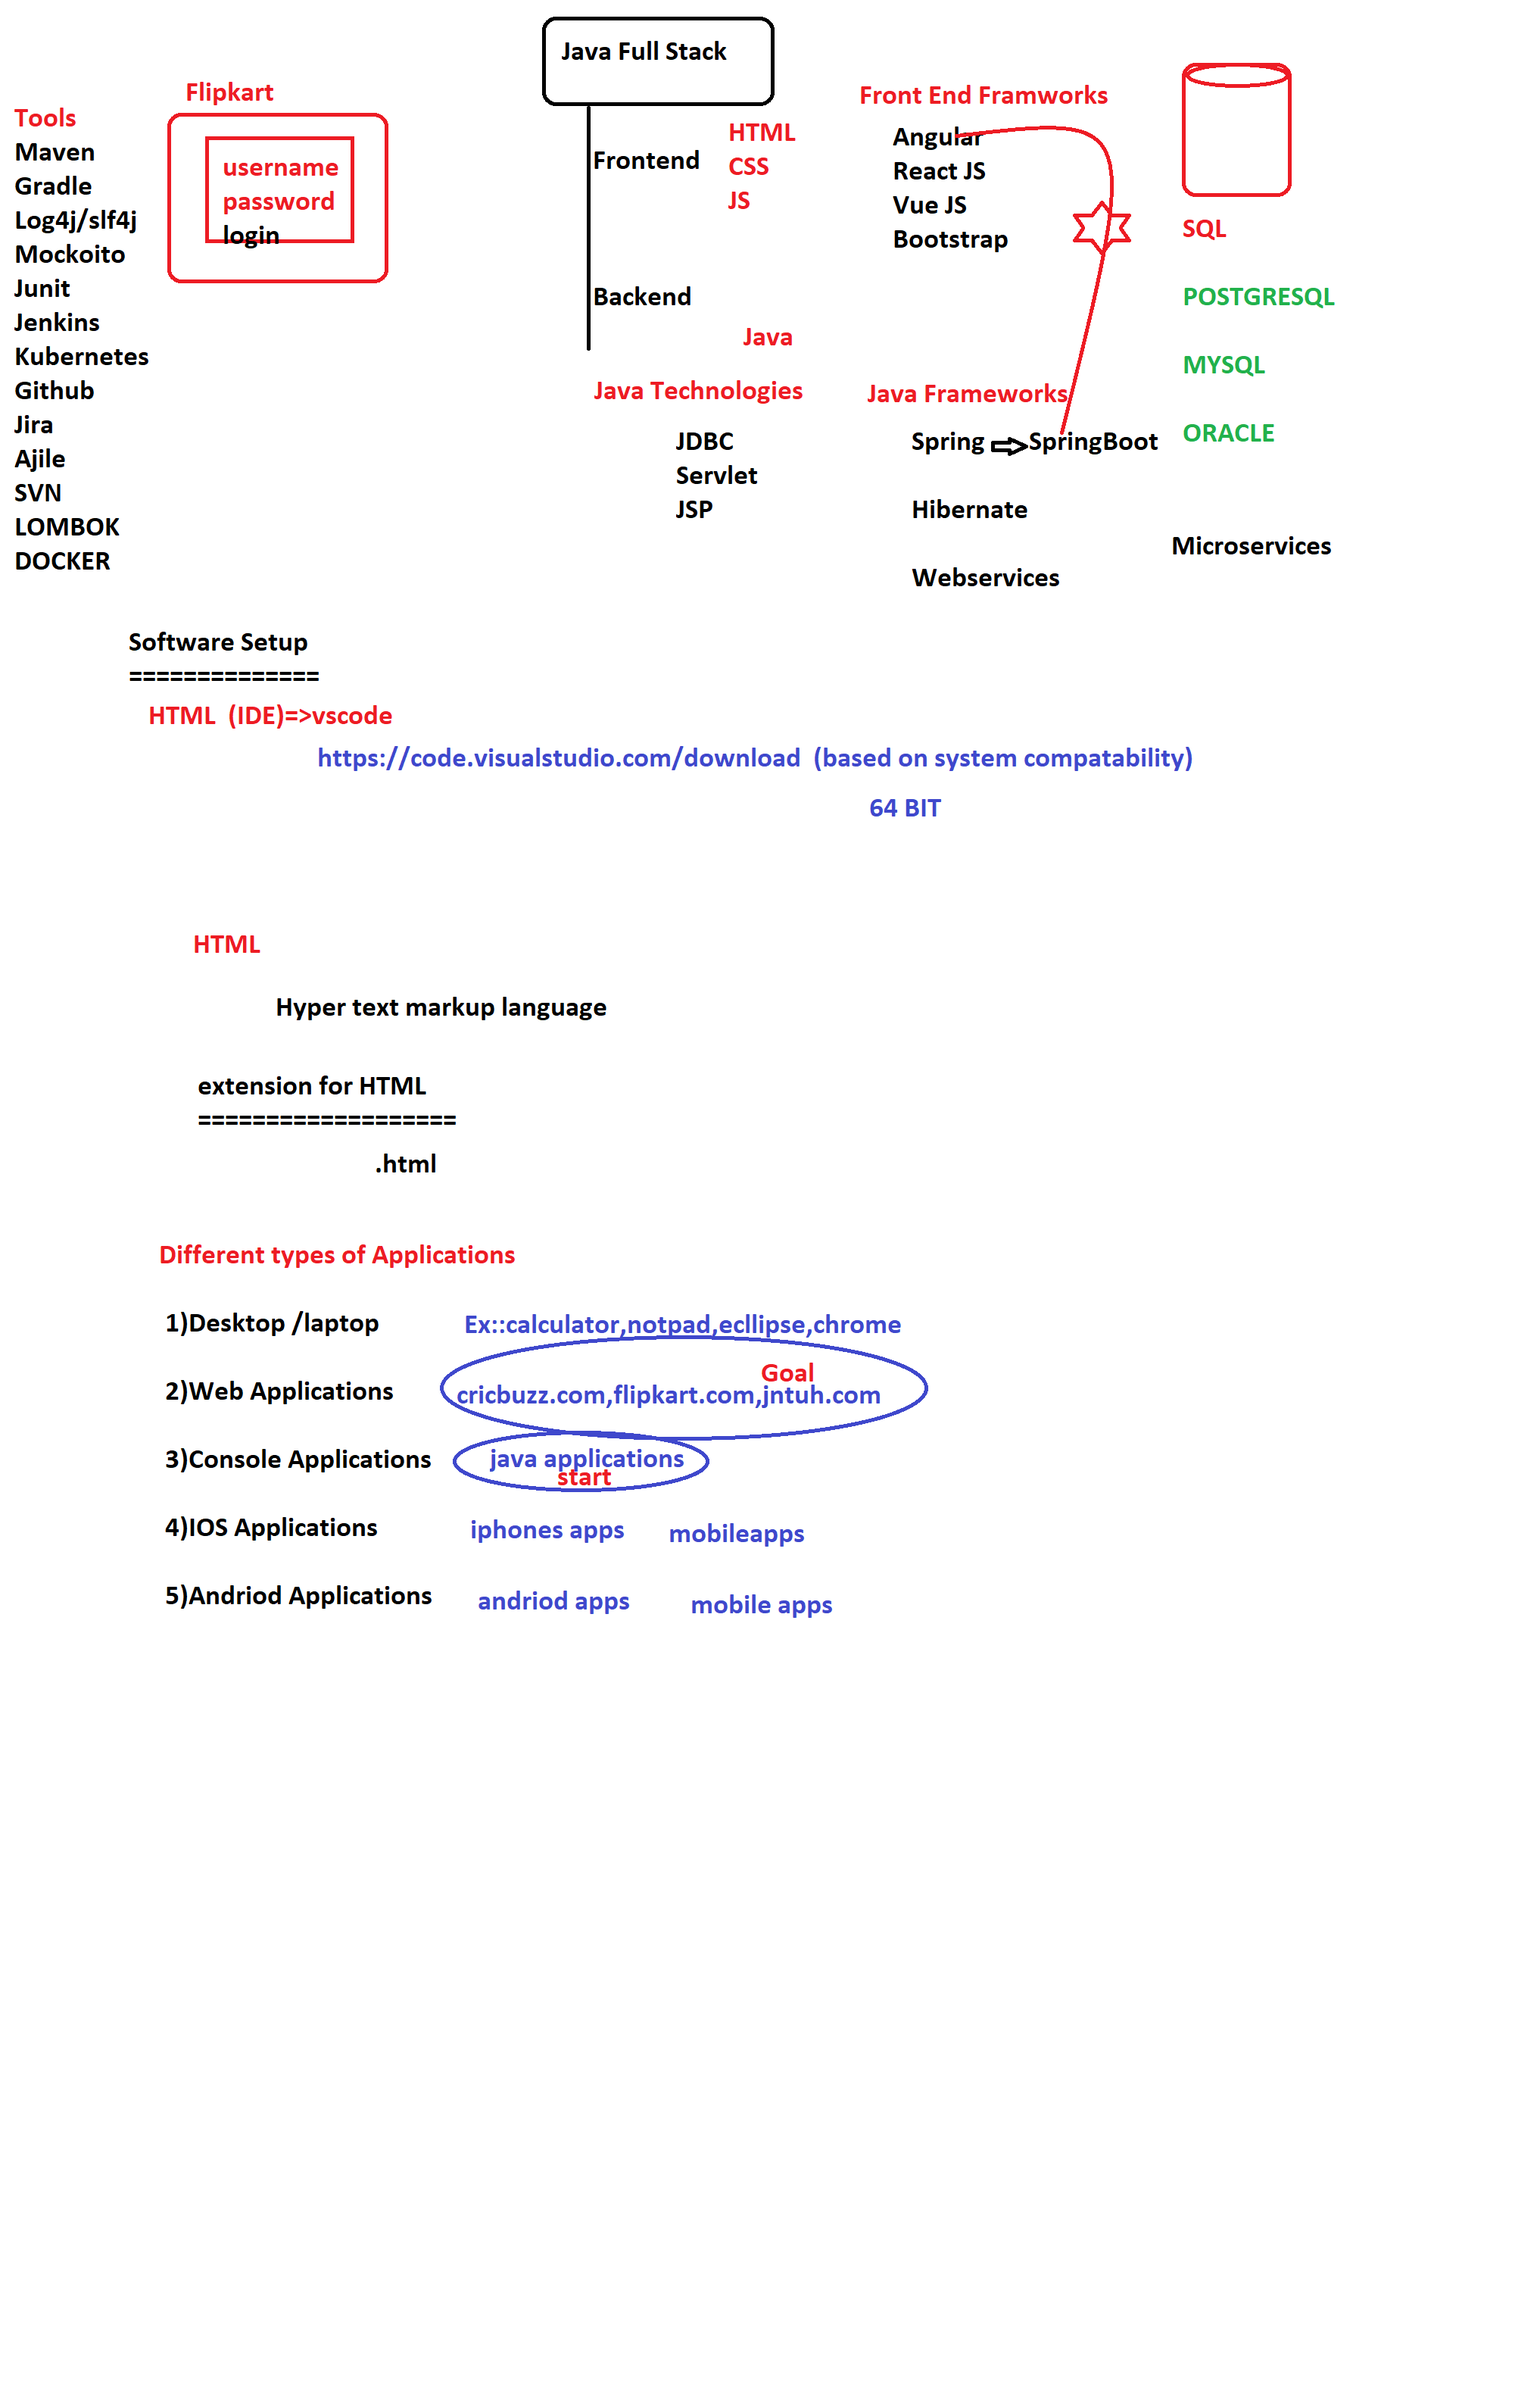
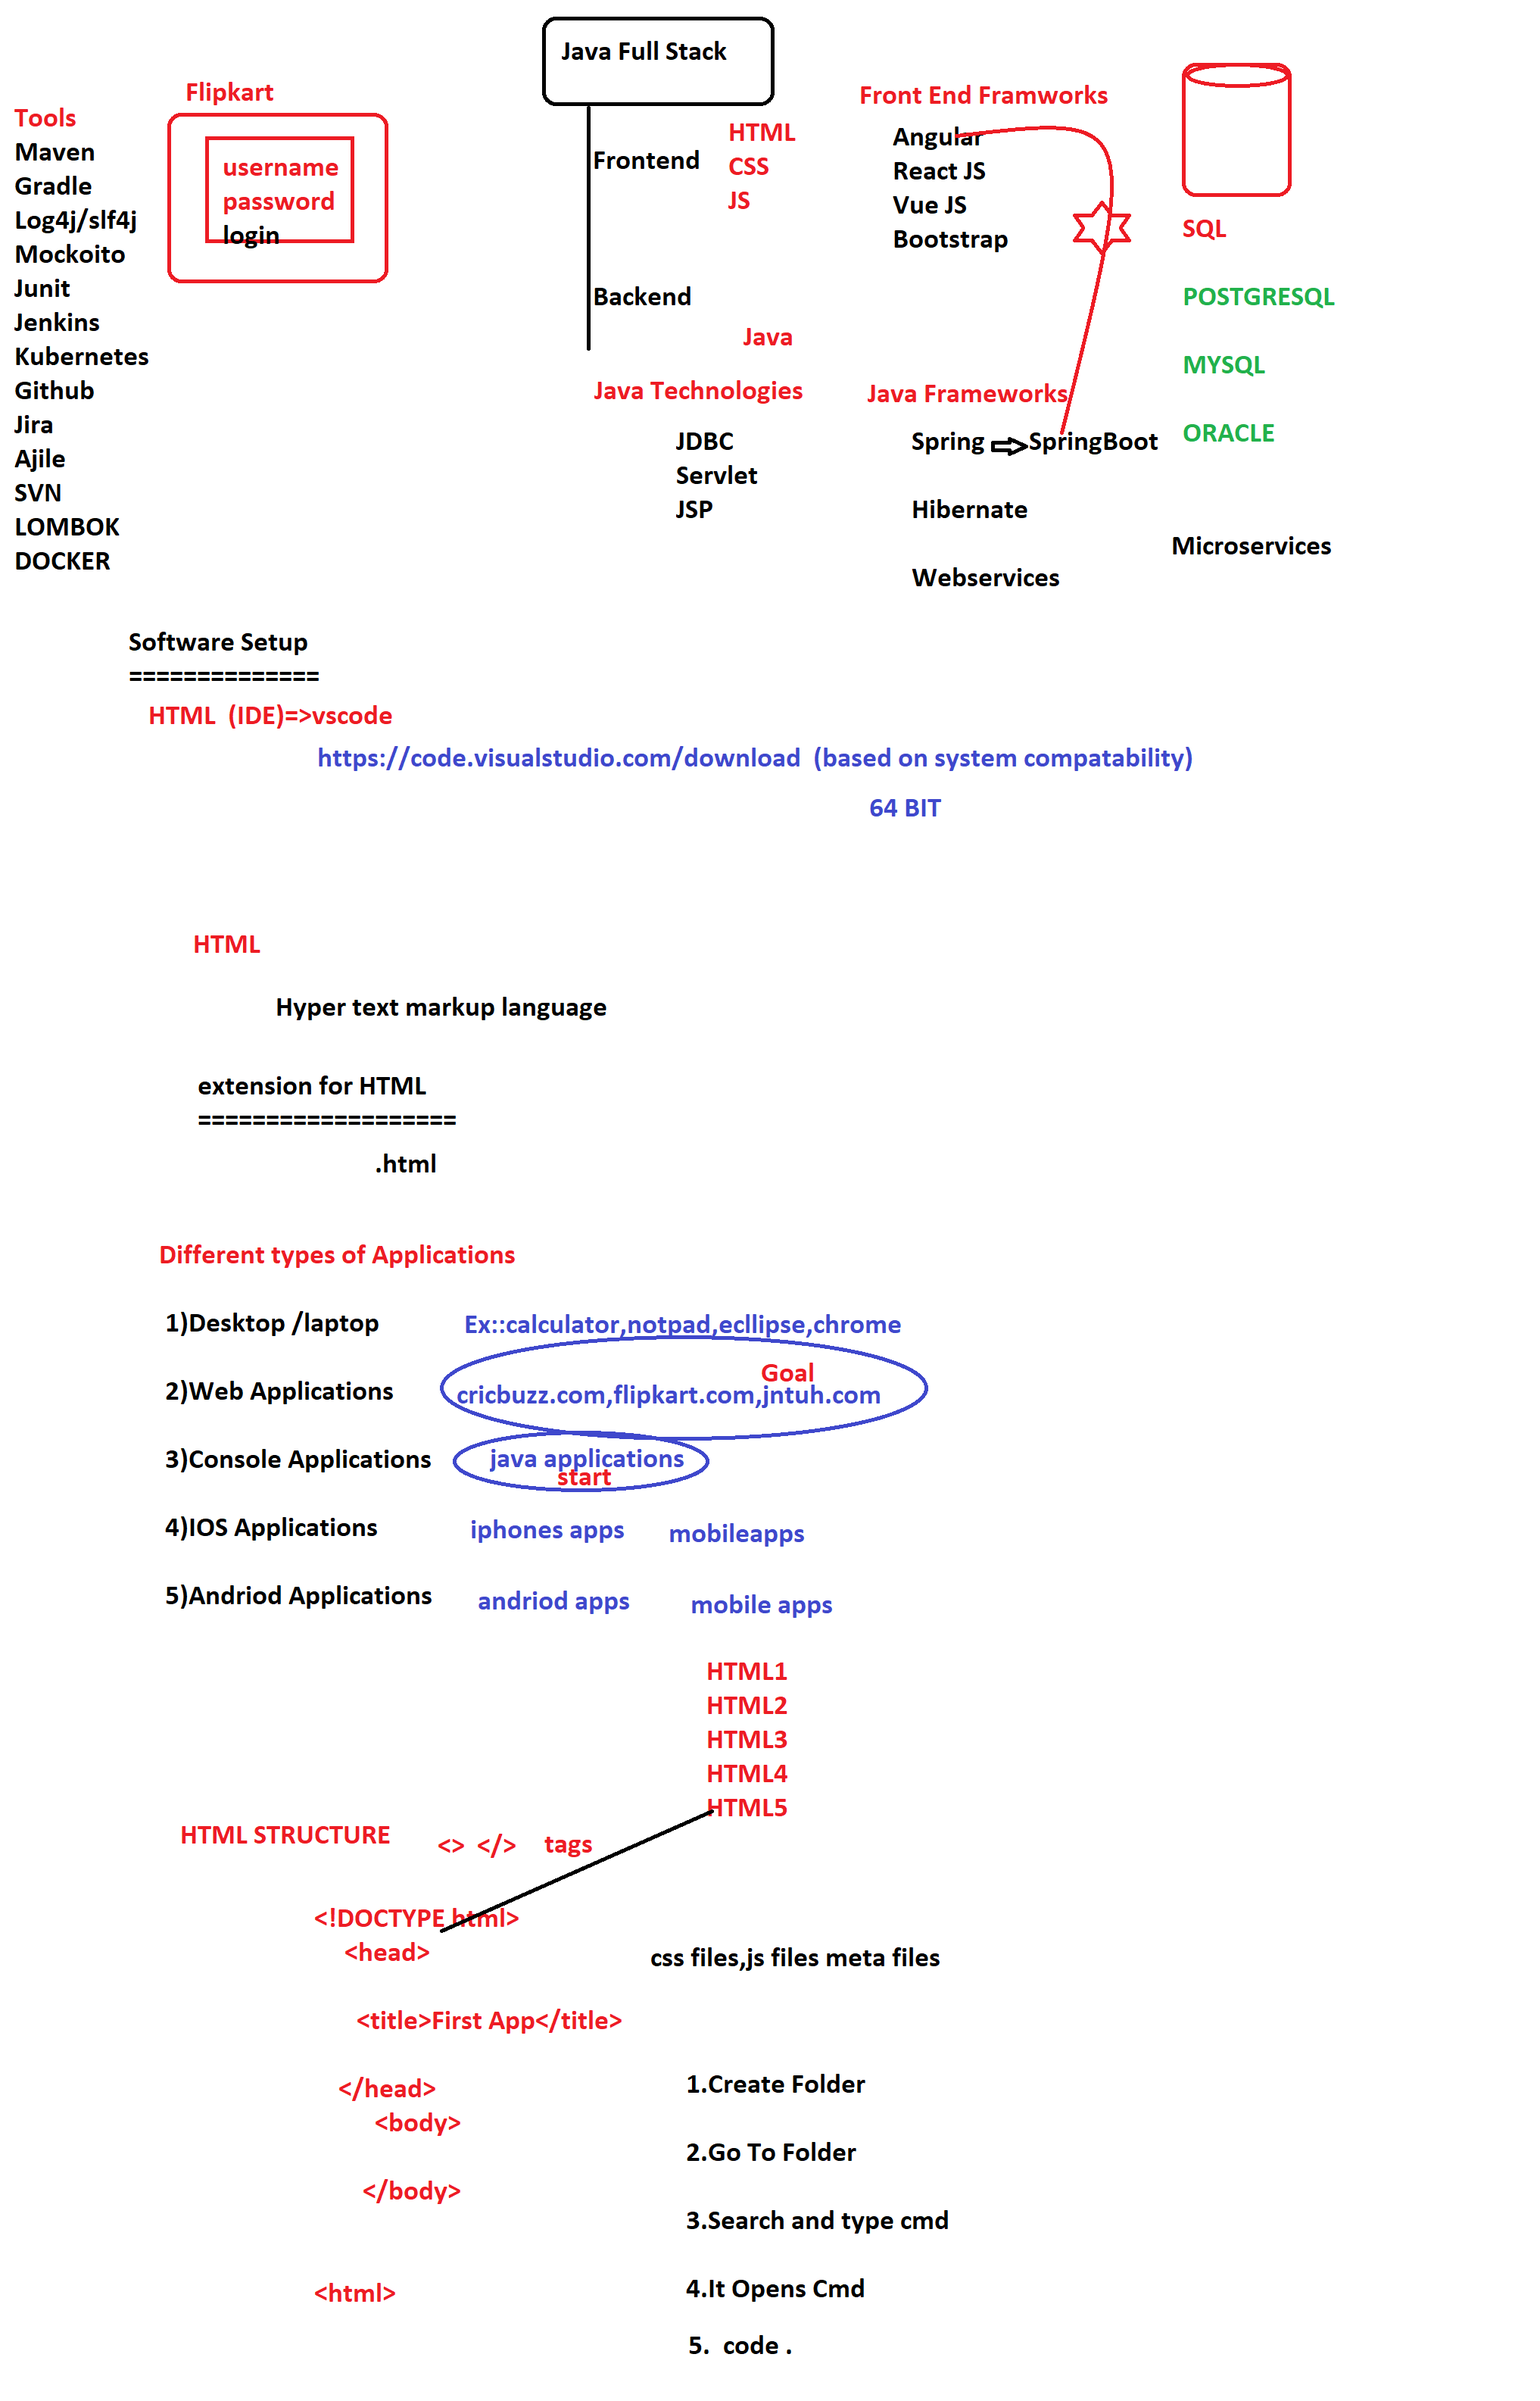
Add files via upload

diff --git a/HTML/04_HTML_Styles/index.html b/HTML/04_HTML_Styles/index.html
@@ -1,0 +1,50 @@
+<!DOCTYPE html>
+<html lang="en">
+<head>
+    <meta charset="UTF-8">
+    <meta http-equiv="X-UA-Compatible" content="IE=edge">
+    <meta name="viewport" content="width=device-width, initial-scale=1.0">
+    <title>Html Styles</title>
+    <style>
+        h1{
+            color: green;
+            background-color: black;
+            padding: 10px
+        }
+        .courses{
+            color: red;
+            background-color: black;
+            padding: 10px;
+        }
+    </style>
+</head>
+<body>
+    <h1>Java Script</h1>
+
+    <p>Lorem ipsum dolor sit amet consectetur adipisicing elit. Esse voluptas doloribus consectetur enim fugiat velit fuga, placeat nulla dicta ducimus voluptate, voluptatibus accusamus totam tempora atque id quasi officia neque soluta nostrum natus necessitatibus minus! Animi adipisci unde perferendis autem. Sint ex odit amet fuga nihil? Harum iste delectus rerum.</p>
+
+    <h1 class="courses">Angular</h1>
+
+    <p>Lorem ipsum dolor sit amet consectetur adipisicing elit. Ad, alias eos. Placeat fugit numquam, in mollitia amet molestias atque beatae. Atque natus pariatur similique sint consequuntur sit voluptatibus cumque nihil, excepturi est ratione, deleniti placeat quibusdam nisi. Repellat eos soluta recusandae. Mollitia, animi? Laborum ea voluptatibus velit fugiat alias facere.</p>
+
+    <h1>React</h1>
+    <p>Lorem ipsum dolor sit amet, consectetur adipisicing elit. Porro culpa quibusdam corporis facere, non labore veritatis sed eveniet, odio, id quae explicabo. Aliquid iusto sapiente illum, et error tempore quas magnam molestias facere fugiat quasi dolores harum amet possimus a nostrum cum optio doloribus ullam. Esse suscipit perferendis in quia.</p>
+    
+    <h1 class="courses">Vue Js</h1>
+    <p>Lorem ipsum dolor sit, amet consectetur adipisicing elit. Explicabo dolore animi repellat sit mollitia aut maxime officia facilis nemo odit eaque dolores quas quam ut cupiditate non iusto porro, aliquid laudantium? Odio voluptatibus, quibusdam commodi atque odit distinctio nesciunt repellat, asperiores dicta voluptatum eligendi. Porro quisquam inventore dolor nobis excepturi!</p>
+
+    <!-- <h1 style="color: green;background-color: black;padding: 10px;">Java Script</h1>
+
+    <p>Lorem ipsum dolor sit amet consectetur adipisicing elit. Esse voluptas doloribus consectetur enim fugiat velit fuga, placeat nulla dicta ducimus voluptate, voluptatibus accusamus totam tempora atque id quasi officia neque soluta nostrum natus necessitatibus minus! Animi adipisci unde perferendis autem. Sint ex odit amet fuga nihil? Harum iste delectus rerum.</p>
+
+    <h1 style="color: green; background-color: black;padding: 10px;">Angular</h1>
+
+    <p>Lorem ipsum dolor sit amet consectetur adipisicing elit. Ad, alias eos. Placeat fugit numquam, in mollitia amet molestias atque beatae. Atque natus pariatur similique sint consequuntur sit voluptatibus cumque nihil, excepturi est ratione, deleniti placeat quibusdam nisi. Repellat eos soluta recusandae. Mollitia, animi? Laborum ea voluptatibus velit fugiat alias facere.</p>
+
+    <h1 style="color: green;background-color: black;padding: 10px;">React</h1>
+    <p>Lorem ipsum dolor sit amet, consectetur adipisicing elit. Porro culpa quibusdam corporis facere, non labore veritatis sed eveniet, odio, id quae explicabo. Aliquid iusto sapiente illum, et error tempore quas magnam molestias facere fugiat quasi dolores harum amet possimus a nostrum cum optio doloribus ullam. Esse suscipit perferendis in quia.</p>
+    
+    <h1 style="color: green;background-color: black;padding: 10px;">Vue Js</h1>
+    <p>Lorem ipsum dolor sit, amet consectetur adipisicing elit. Explicabo dolore animi repellat sit mollitia aut maxime officia facilis nemo odit eaque dolores quas quam ut cupiditate non iusto porro, aliquid laudantium? Odio voluptatibus, quibusdam commodi atque odit distinctio nesciunt repellat, asperiores dicta voluptatum eligendi. Porro quisquam inventore dolor nobis excepturi!</p> -->
+</body>
+</html>

diff --git a/HTML/07_HTML_Lists/index.html b/HTML/07_HTML_Lists/index.html
@@ -1,0 +1,68 @@
+<!DOCTYPE html>
+<html lang="en">
+<head>
+    <meta charset="UTF-8">
+    <meta http-equiv="X-UA-Compatible" content="IE=edge">
+    <meta name="viewport" content="width=device-width, initial-scale=1.0">
+    <title>HTML Lists</title>
+    <style>
+        h1{
+            background-color: black;
+            color: white;
+            padding: 10px;
+            text-align: center;
+        }
+    </style>
+</head>
+<body>
+    <h1>HTML Lists</h1>
+
+    <ol>
+        <li>Angular</li> 
+        <li>React</li>
+        <li>Vue Js</li>
+        <li>SpringBoot</li>
+       
+    </ol>
+
+    <ol type="a">
+        <li>Angular</li> 
+        <li>React</li>
+        <li>Vue Js</li>
+        <li>SpringBoot</li>
+       
+    </ol>
+
+    <ol type="A">
+        <li>Angular</li> 
+        <li>React</li>
+        <li>Vue Js</li>
+        <li>SpringBoot</li>
+       
+    </ol>
+
+    <ol type="i">
+        <li>Angular</li> 
+        <li>React</li>
+        <li>Vue Js</li>
+        <li>SpringBoot</li>
+       
+    </ol>
+    <ol type="I">
+        <li>Angular</li> 
+        <li>React</li>
+        <li>Vue Js</li>
+        <li>SpringBoot</li>
+       
+    </ol>
+    <!--HTML Lists-->
+    <ul>
+        <li>Angular</li> 
+        <li>React</li>
+        <li>Vue Js</li>
+        <li>SpringBoot</li>
+       
+     </ul>
+
+</body>
+</html>

diff --git a/HTML/05_HTML_Comments/index.html b/HTML/05_HTML_Comments/index.html
@@ -1,0 +1,25 @@
+<!DOCTYPE html>
+<html lang="en">
+<head>
+    <meta charset="UTF-8">
+    <meta http-equiv="X-UA-Compatible" content="IE=edge">
+    <meta name="viewport" content="width=device-width, initial-scale=1.0">
+    <title>HTML Comments</title>
+    <style>
+        .weather-report{
+        background-color: black;
+        color: white;
+        padding: 20px;
+
+        }
+    </style>
+</head>
+<body>
+    <!--  comments-->
+    <div class="weather-report">
+        <h1>Weather Report</h1>
+        <!-- 
+        <p>Lorem, ipsum dolor sit amet consectetur adipisicing elit. Laborum numquam temporibus non vel maiores enim voluptas, quidem nesciunt quis eveniet ut eius illum tenetur soluta laboriosam exercitationem commodi voluptates adipisci inventore natus nostrum? Eum aut quidem iusto alias autem. Perferendis atque incidunt aliquid, ipsam quae facere animi ex ea mollitia?</p> -->
+    </div>
+</body>
+</html>

diff --git a/HTML/06_HTML_WebsiteStructure/index.html b/HTML/06_HTML_WebsiteStructure/index.html
@@ -1,0 +1,39 @@
+<!DOCTYPE html>
+<html lang="en">
+<head>
+    <meta charset="UTF-8">
+    <meta http-equiv="X-UA-Compatible" content="IE=edge">
+    <meta name="viewport" content="width=device-width, initial-scale=1.0">
+    <title>Website Structure</title>
+    <style>
+        h1{
+            background-color: black;
+            color: white;
+            padding: 10px;
+            text-align: center;
+        }
+    </style>
+</head>
+<body>
+    <h1>Website Structure</h1>
+   
+    <header>
+        <nav>
+            am nav bar
+        </nav>
+    </header>
+    <section>
+             <!-- Sliders   -->
+             sliders
+    </section>
+
+    <main>
+        <h2>Producst</h2>
+        <h2>Services</h2>
+    </main>
+
+    <footer>
+        <h3>Am a footer</h3>
+    </footer>
+</body>
+</html>

diff --git a/HTML/08_HTML_links/index.html b/HTML/08_HTML_links/index.html
@@ -1,0 +1,30 @@
+<!DOCTYPE html>
+<html lang="en">
+<head>
+    <meta charset="UTF-8">
+    <meta http-equiv="X-UA-Compatible" content="IE=edge">
+    <meta name="viewport" content="width=device-width, initial-scale=1.0">
+    <title>Links</title>
+    <style>
+        h1{
+            background-color: black;
+            color: white;
+            padding: 10px;
+            text-align: center;
+        }
+    </style>
+</head>
+<body>
+ <h1>HTML Links</h1>
+     <a href="aboutus.html" >About us page</a>
+     <a href="https://facebook.com">facebook</a>
+     <a href="https://google.com">Google</a>
+     <a href="https://Zomato.com">Zomato</a>
+     <a href="https://github.com/abhinay-developer">abhinay's Github</a>
+
+
+     
+
+   
+</body>
+</html>

diff --git a/HTML/08_HTML_links/aboutus.html b/HTML/08_HTML_links/aboutus.html
@@ -1,0 +1,14 @@
+<!DOCTYPE html>
+<html lang="en">
+<head>
+    <meta charset="UTF-8">
+    <meta http-equiv="X-UA-Compatible" content="IE=edge">
+    <meta name="viewport" content="width=device-width, initial-scale=1.0">
+    <title>Document</title>
+</head>
+<body>
+    <h1>
+        About us page
+    </h1>
+</body>
+</html>

diff --git a/HTML/01_HTML_Structure/index.html b/HTML/01_HTML_Structure/index.html
@@ -1,4 +1,5 @@
 <!Doctype html>
+<html>
 <head>
     <title>Hello World</title>
 </head>
